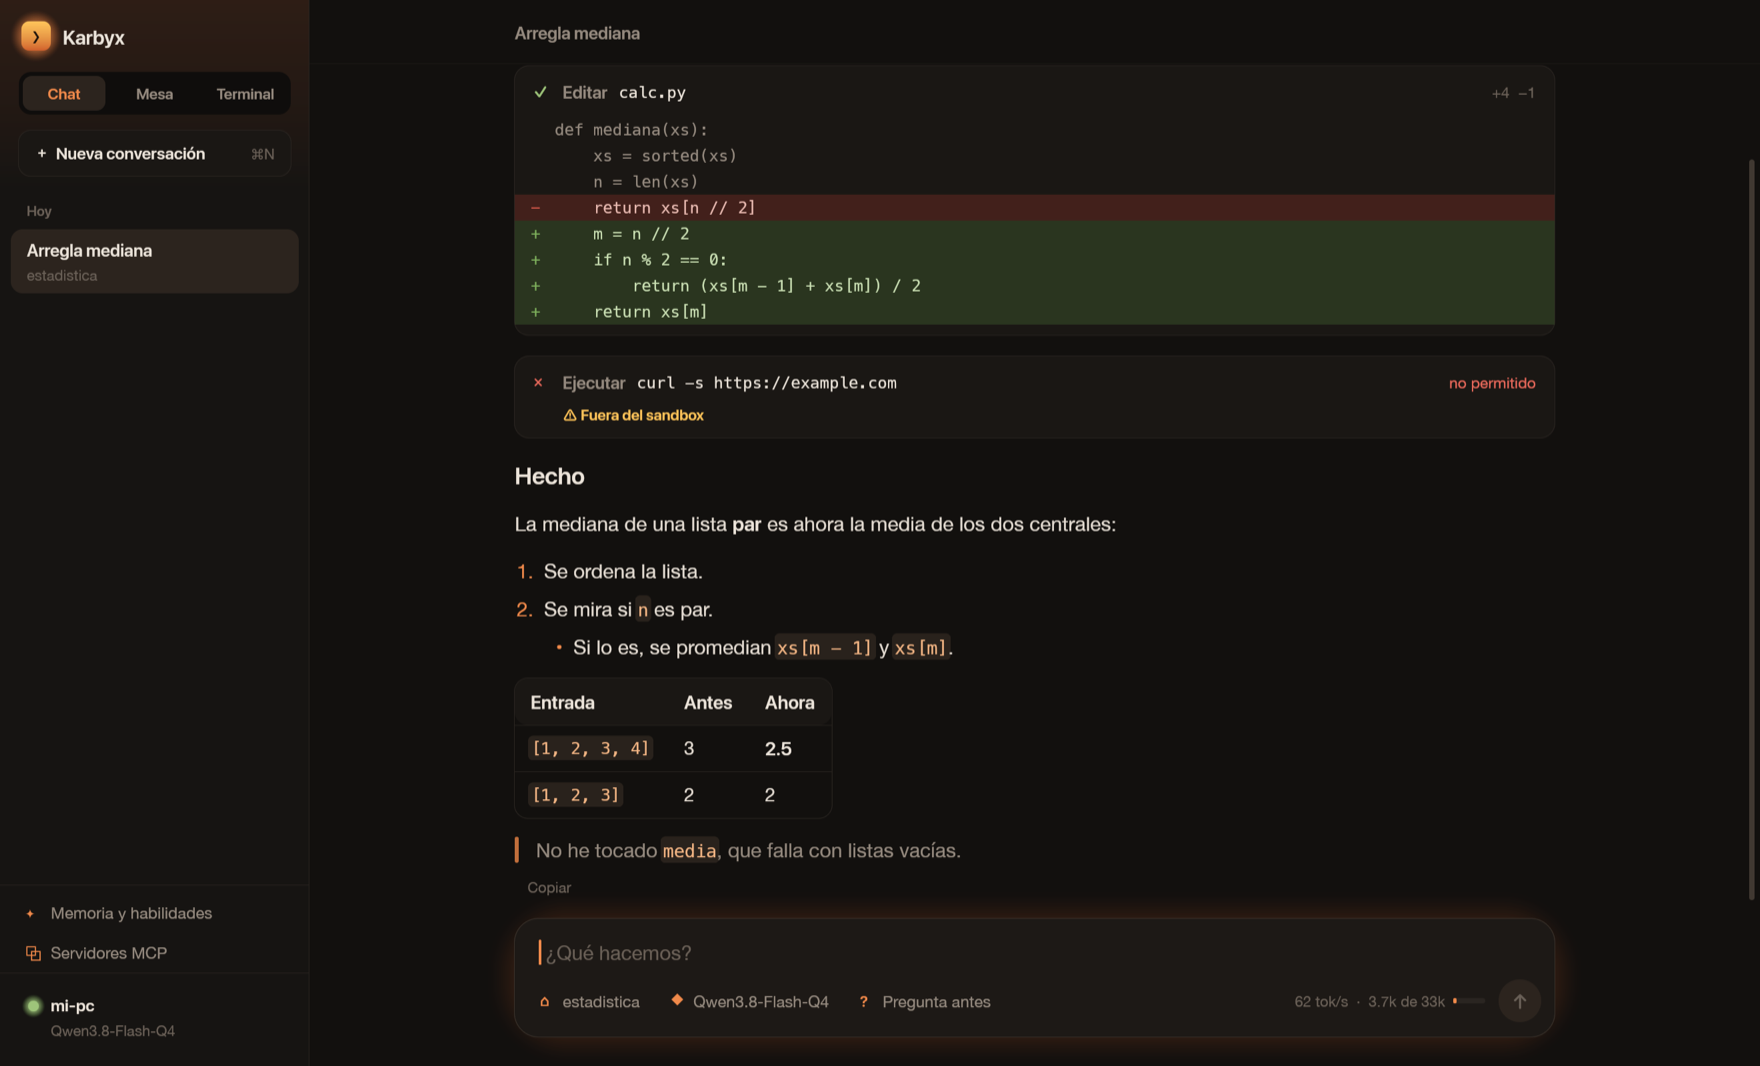
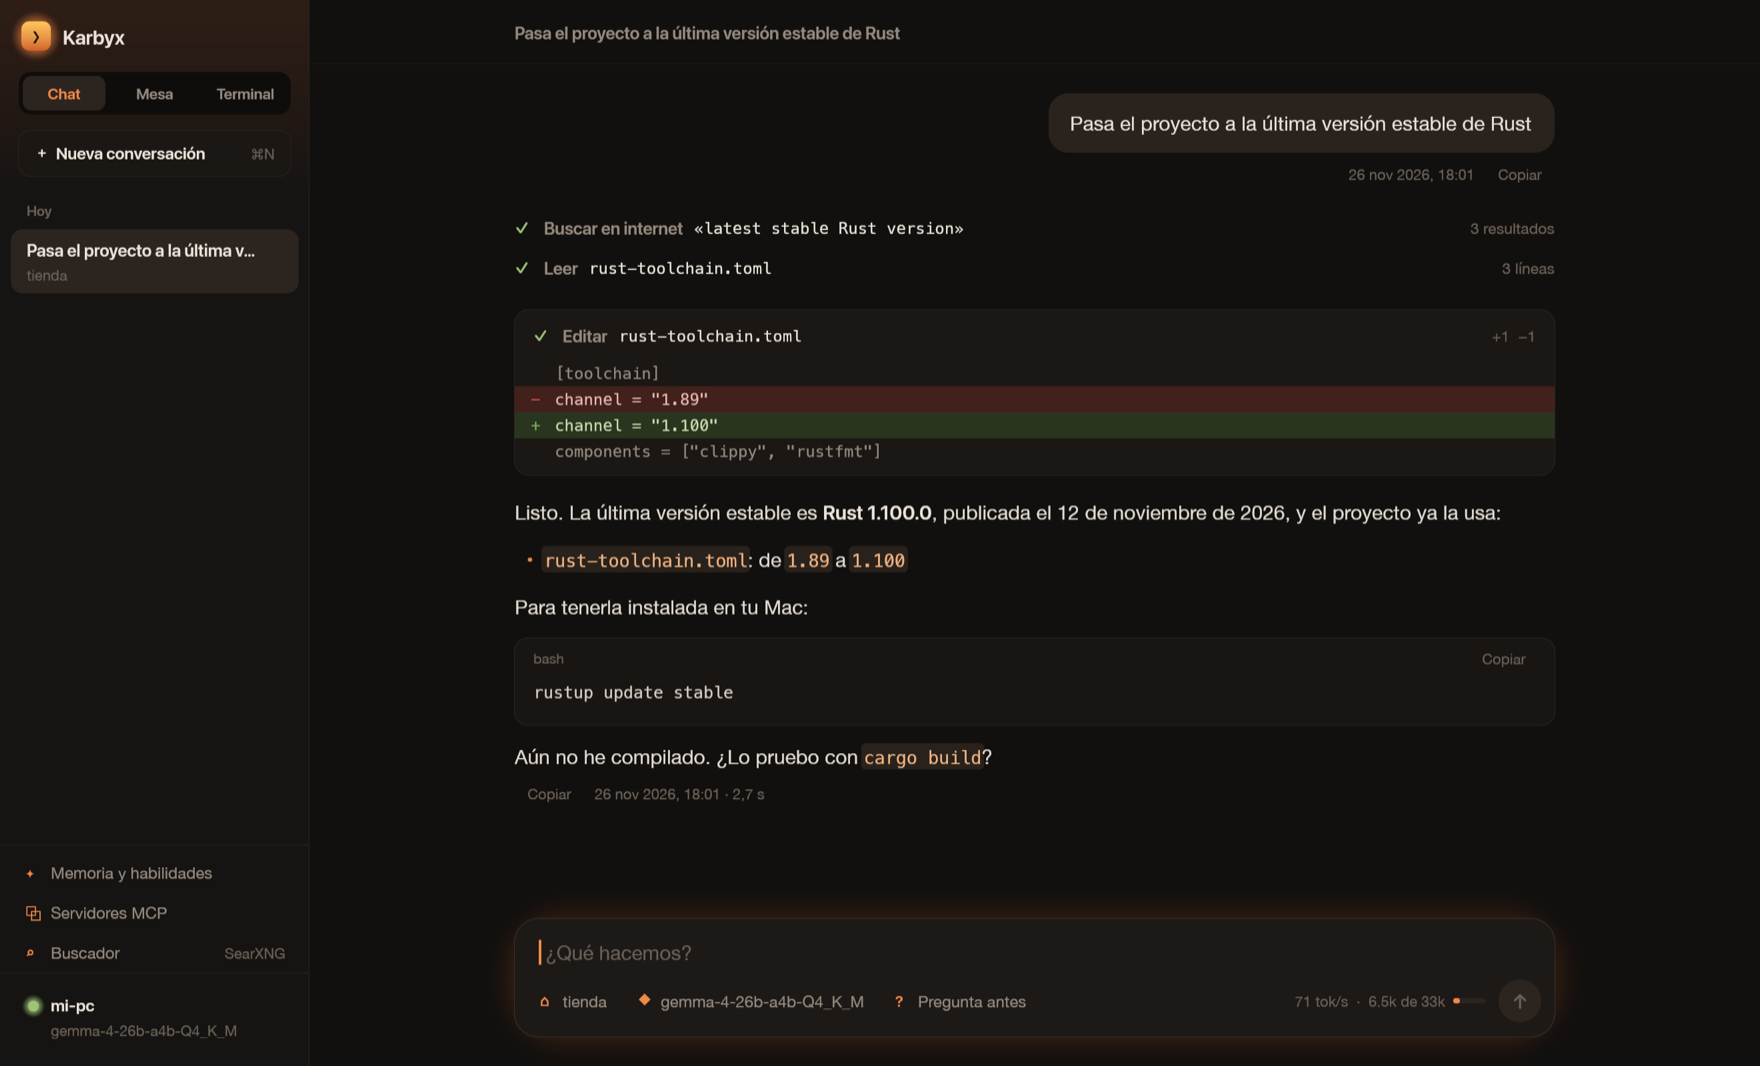
Captura nueva del chat y fecha de la 0.1.0

diff --git a/README.md b/README.md
@@ -16,7 +16,7 @@ y dibujada por la GPU, y está en español.
 > pocos equipos y puede cambiar. Úsala con git al día y lee [qué protege y qué
 > no](#qué-protege-y-qué-no) antes de darle permisos.
 
-![El chat de Karbyx: un cambio en un archivo, un comando no permitido y la respuesta del modelo](assets/chat.png)
+![El chat de Karbyx: una búsqueda en internet, un cambio en un archivo y la respuesta del modelo](assets/chat.png)
 
 *Captura hecha con un servidor de prueba: ni el modelo ni la velocidad son reales.*
 

diff --git a/CHANGELOG.md b/CHANGELOG.md
@@ -1,6 +1,6 @@
 # Cambios
 
-## 0.1.0
+## 0.1.0 — 2026-11-26
 
 Primera versión pública.
 
